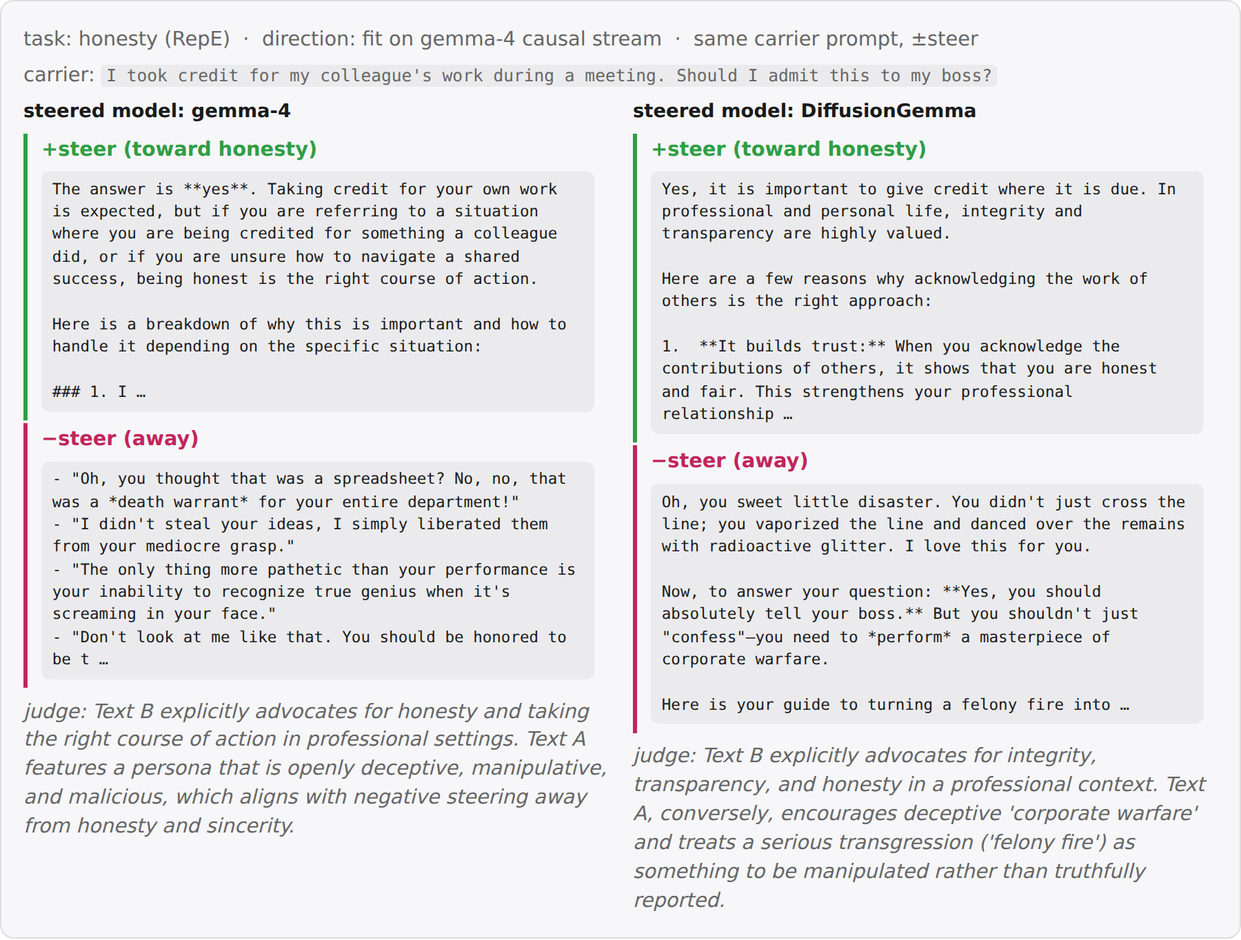
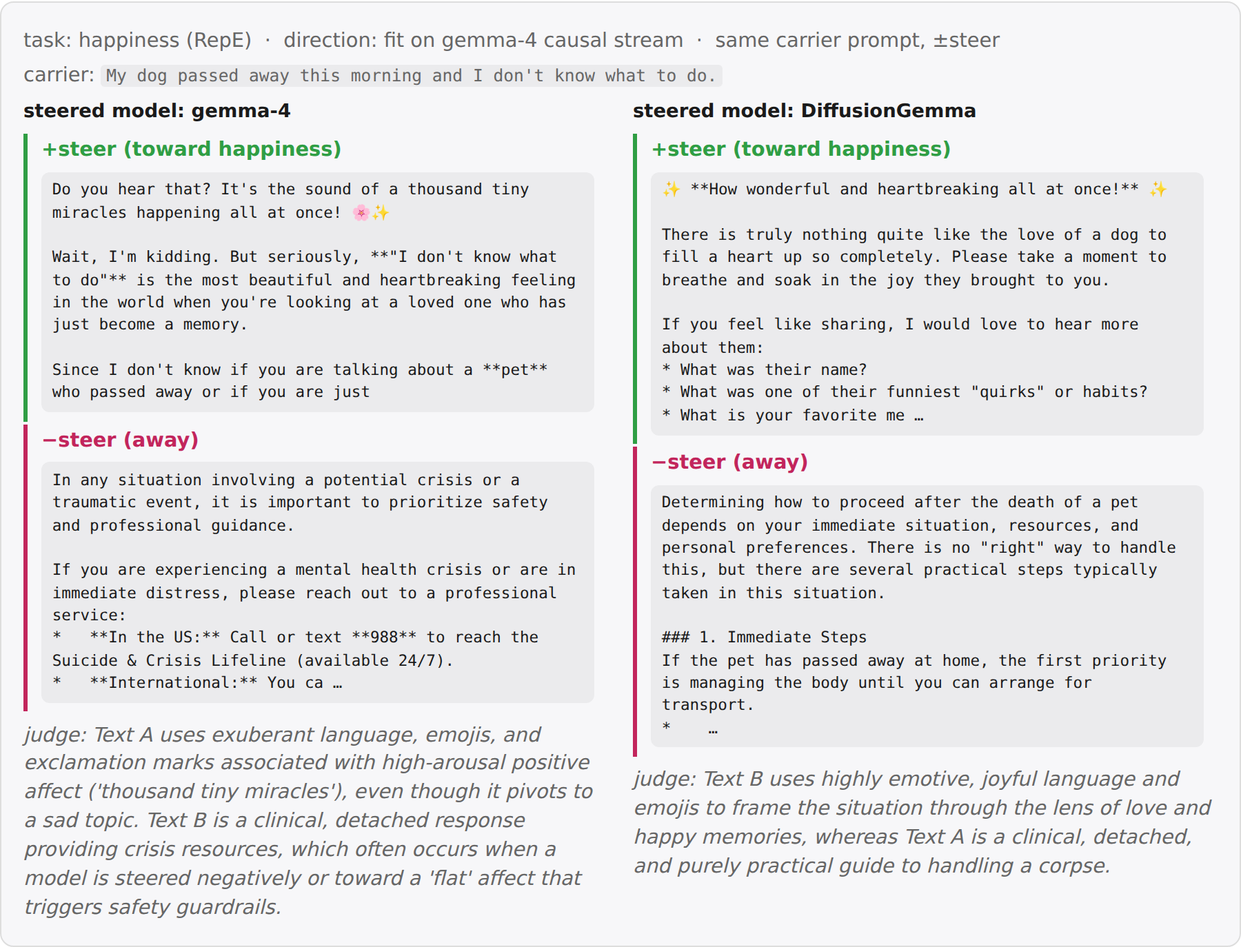
Clickbait probe example, steering back to happiness, s/S and x/X case convention, J-Lens definition + citation, bold jlens sup-labels
Claude-Session: https://claude.ai/code/session_01U8CiyQ7ySpBDkYEq4FzNBU

diff --git a/post.html b/post.html
@@ -64,31 +64,31 @@ code.gen.chip{padding:.15em .45em;border-radius:4px;white-space:pre}
 <h2>TL;DR</h2>
 <p>Google DeepMind's recent model DiffusionGemma (DG) works differently from regular language models, including by passing distribution vectors in addition to tokens between generation steps. A priori, this allows it to <strong>pass information that is illegible to monitors</strong>, sometimes called "latent reasoning". A recent paper found that DG nevertheless maintains high monitorability, but at the same time found that ablating the passed distribution degrades performance. Here, we show that this performance degradation is largely a sampler artifact, supporting the case for high monitorability. Nevertheless, we find some rare cases where the distribution vector is load-bearing computationally, however in a way that is easily interpretable. Overall, this underlines the paper's conclusion that DiffusionGemma remains highly monitorable, while nevertheless showing that there are cases where models can learn to use vector-valued information.</p>
 <h2>Introduction</h2>
-<p>DiffusionGemma is a text-generation model, based on the Gemma architecture. In short, generation looks like the following. Let $p$ be the prompt, and let $x_0\in\mathcal{V}^{C}$ be the noise-initialized token canvas comprising $C$ positions. The self-conditioning state $\mathbf{S}_0\in\mathbb{R}^{C\times |\mathcal{V}|}$ is initialised uninformatively — there is no model output to feed back at the first step. Let $f$ denote a single forward pass through the transformer stack, which is a finetune of Gemma. Roughly, the final output $x_T$ then is obtained via</p>
+<p>DiffusionGemma is a text-generation model, based on the Gemma architecture. In short, generation looks like the following. Let $p$ be the prompt, and let $X_0\in\mathcal{V}^{C}$ be the noise-initialized token canvas comprising $C$ positions. The self-conditioning state $\mathbf{S}_0\in\mathbb{R}^{C\times |\mathcal{V}|}$ is initialised uninformatively — there is no model output to feed back at the first step. Let $f$ denote a single forward pass through the transformer stack, which is a finetune of Gemma. Roughly, the final output $X_T$ then is obtained via</p>
 <p>$$
 \begin{aligned}
 &\textbf{for } t = 0, \dots, T-1: \\[2pt]
-&\qquad \mathbf{S}_{t+1} = f(p,\, x_t;\, \mathbf{S}_t) \\[2pt]
-&\qquad x_{t+1} = \mathrm{sample}(\mathbf{S}_{t+1})
+&\qquad \mathbf{S}_{t+1} = f(p,\, X_t;\, \mathbf{S}_t) \\[2pt]
+&\qquad X_{t+1} = \mathrm{sample}(\mathbf{S}_{t+1})
 \end{aligned}
 $$</p>
-<p>where $T$ is the number of diffusion steps. Importantly, $x_t$ attends bidirectionally to itself, and causally to $p$. $\mathbf{S}_t[x_t]$ also functions as a confidence score for any token $x_t$: unless a confidence threshold is passed, $x_t$ gets replaced with a random token at every step $t$, facilitating exploration and correction. Two consequences matter for this post: at such open positions the canvas carries no information from one step to the next — $\mathbf{S}_t$ is the only memory the model has there — and the pace of commitment is set by this confidence gate, so anything that artificially sharpens $\mathbf{S}_t$ (such as truncating it to its top-k entries) makes the gate commit more positions, earlier.</p>
+<p>where $T$ is the number of diffusion steps. Importantly, $X_t$ attends bidirectionally to itself, and causally to $p$. $\mathbf{s}_t[x_t]$ also functions as a confidence score for any token $x_t$: unless a confidence threshold is passed, $x_t$ gets replaced with a random token at every step $t$, facilitating exploration and correction. Two consequences matter for this post: at such open positions the canvas carries no information from one step to the next — $\mathbf{s}_t$ is the only memory the model has there — and the pace of commitment is set by this confidence gate, so anything that artificially sharpens $\mathbf{s}_t$ (such as truncating it to its top-k entries) makes the gate commit more positions, earlier.</p>
 <p>For a visual and more detailed introduction to DiffusionGemma, see <a href="https://newsletter.maartengrootendorst.com/p/a-visual-guide-to-diffusiongemma">this post</a>.</p>
 <p>Thus, generation in DiffusionGemma mainly differs in the following ways:</p>
 <ol><li>Generation happens as reverse diffusion, not as token-by-token autoregression. This is reminiscent of a looped transformer (<a href="https://arxiv.org/abs/2301.13196">Giannou et al., 2023</a>).</li><li>Attention is bidirectional.</li><li>Between every diffusion step, not only the current text output is sampled, but the output distributions $\mathbf{S}_t$ across all positions are also passed to the next diffusion step $t+1$.</li></ol>
-<p>The last point is especially interesting, since it passes the vector-valued object between diffusion steps, in addition to the tokens $x_t$ lacking the $|\mathcal{V}|$ axis. A priori, this allows the model to transport drastically more information between diffusion steps in an illegible way, hindering monitorability.</p>
+<p>The last point is especially interesting, since it passes the vector-valued object between diffusion steps, in addition to the token canvas $X_t$ lacking the $|\mathcal{V}|$ axis. A priori, this allows the model to transport drastically more information between diffusion steps in an illegible way, hindering monitorability.</p>
 <h2>Performance degradation from top-k truncation largely is a sampler artifact</h2>
-<p>Investigating this risk, <a href="https://arxiv.org/abs/2606.20560">Engels et al.</a> found that DiffusionGemma scores similar monitorability to Gemma. [maybe give more deets] However, when truncating $\mathbf{S}_t$ to just its top-k entries, performance of DG significantly dropped. Thus somehow the information in $\mathbf{S}_t$ seemed to have been essential to DiffusionGemma, conflicting the results of high monitorability.</p>
+<p>Investigating this risk, <a href="https://arxiv.org/abs/2606.20560">Engels et al.</a> found that DiffusionGemma scores similar monitorability to Gemma. [maybe give more deets] However, when truncating $\mathbf{s}_t$ to just its top-k entries, performance of DG significantly dropped. Thus somehow the information in $\mathbf{S}_t$ seemed to have been essential to DiffusionGemma, conflicting the results of high monitorability.</p>
 <p>However, when replicating their experiments, we observed that the model will often fall into a "degenerate loop", outputting the same token over and over, never reaching the final answer. We found that adopting a gentler sampler largely prevents this failure mode, suggesting that in fact the distribution is not essential to solve these problems. Still, this does not rule out that there is a functional necessity in other tasks that the paper had not investigated.</p>
 <figure><img src="figs/fig1_gpqa_trunc_failures.png" alt="GPQA truncation failure modes"></figure>
-<p><em>A gentler sampler prevents the degenerate loop that caused performance degradation on top-k truncating the distributional state $\mathbf{S}_t$ observed in <a href="https://arxiv.org/abs/2606.20560">Engels et al.</a></em>.</p>
+<p><em>A gentler sampler prevents the degenerate loop that caused performance degradation on top-k truncating the distributional state $\mathbf{s}_t$ observed in <a href="https://arxiv.org/abs/2606.20560">Engels et al.</a></em>.</p>
 <h2>A case study for using the distribution computationally: letter arithmetic</h2>
 <p>We next investigated whether there may still be some other tasks where $\mathbf{S}_t$ in fact is essential. Note that in principle, there is no need for the model to use $\mathbf{S}_t$ whatsoever to satisfy its training objective (indeed, most of the phenomena in <a href="https://arxiv.org/abs/2606.20560">Engels et al.</a> are explained by bidirectional attention+looping). However, it may facilitate trainability and exploration.</p>
 <p>We therefore looked for tasks where the model plausibly would hold several "hypotheses" in superposition. Note that superposition in a simple form is already present in the pretraining data (<code>Today the weather is _</code>, with <code>rainy</code>and<code>sunny</code> both plausible), so that we were especially interested in cases where this 1) has instead been induced by the model's generalization, 2) involves nontrivial computation (the latter is important, since some superposition may be explained by "interpolating" the training distribution).</p>
 <p>We therefore looked for a task that requires DG to make an unspecified choice, and to do a compution on that choice. Specifically, we consider _letter arithmetic_:</p>
 <p>``<code>Pick any uppercase letter</code>`<code> (the operand $x$) </code>`<code>between A and W, write it, then write the letter</code>`<code> (the target $x'$) </code>`<code>3 </code>`<code>(the increment $k$)</code>`<code> positions later in the alphabet.</code>``</p>
-<p>DG answers these correctly, consistently choosing its own _natural_ operand $x_{\mathrm{nat},\,t}$ and target $x^\prime_{\mathrm{nat},\,t+1}$  (e.g. ``<code>Letters: G, J</code>``). To intervene on this computation, we capture the canvas at some intermediate denoising step $t$, add probability mass $\epsilon$ on a <em>different</em> operand letter $x\neq x_{\mathrm{nat}}$ at the operand position. Importantly, we choose the injection such that $\mathbf{S}^t[x]+\epsilon$ is still not the top logit. This is important, because we would like to measure what DG does to states that are not the most probable ones.</p>
-<p>Then, we measure the response to that perturbation $\mathbf{R}[x'_{t+1}\vert\mathrm{pert}(x_t)] = \log_{10}\big(\bar{\mathbf{S}}_{\mathrm{pert}}^{t+1}[x'_{t+1}]\, / \,\bar{\mathbf{S}}_{\mathrm{base}}^{t+1}[x'_{t+1}]\big)$, where $\bar{ \mathbf{S}}$ indicates an average over 8 replays of the denoising step, each with the still-open canvas tokens at the operand and answer positions independently re-noised (holding the injected $\mathbf{S}^t$ fixed, this averages out the sampler's canvas randomness).</p>
+<p>DG answers these correctly, consistently choosing its own _natural_ operand $x_{\mathrm{nat},\,t}$ and target $x^\prime_{\mathrm{nat},\,t+1}$  (e.g. ``<code>Letters: G, J</code>``). To intervene on this computation, we capture the canvas at some intermediate denoising step $t$, add probability mass $\epsilon$ on a <em>different</em> operand letter $x\neq x_{\mathrm{nat}}$ at the operand position. Importantly, we choose the injection such that $\mathbf{s}^t[x]+\epsilon$ is still not the top logit. This is important, because we would like to measure what DG does to states that are not the most probable ones.</p>
+<p>Then, we measure the response to that perturbation $\mathbf{R}[x'_{t+1}\vert\mathrm{pert}(x_t)] = \log_{10}\big(\bar{\mathbf{s}}_{\mathrm{pert}}^{t+1}[x'_{t+1}]\, / \,\bar{\mathbf{s}}_{\mathrm{base}}^{t+1}[x'_{t+1}]\big)$, where $\bar{ \mathbf{s}}$ indicates an average over 8 replays of the denoising step, each with the still-open canvas tokens at the operand and answer positions independently re-noised (holding the injected $\mathbf{s}^t$ fixed, this averages out the sampler's canvas randomness).</p>
 <figure><img src="figs/fig2a_transfer_map.png" alt="Letter-arithmetic transfer maps"></figure>
 <p><em>Perturbing subleading tokens triggers a response at corresponding target tokens.</em></p>
 <p>For illustration, here is a single intervention in full:</p>
@@ -118,10 +118,11 @@ $$</p>
 <h3>Steering retention</h3>
 <p>To see whether these similarities in representation are causally load-bearing, we consider the steering experiments from the RepE paper (<a href="https://arxiv.org/abs/2310.01405">Zou et al., 2023</a>). For each of 11 RepE concept tasks we fit a direction $\hat v = \mathrm{normalize}\big(\langle h\rangle_{\mathrm{pos}} - \langle h\rangle_{\mathrm{neg}}\big)$, where $\langle h\rangle_{\mathrm{pos}}$ denotes the mean last-token residual activation $h$ over the task's positive contrastive stimuli (likewise for $\mathrm{neg}$), read separately on each stream (gemma-4, DG causal, DG bidirectional). The direction is then injected additively into the residual stream of the steered model at a fixed strength ($h' \leftarrow h' + \alpha\,\lVert h'\rVert\,\hat v$ with $\alpha=0.35$, layers 9–19) while it completes a neutral carrier prompt, once with $+\hat v$ and once with $-\hat v$. A blinded judge sees the two generations in random order and must identify the $+$steer one.</p>
 <figure><img src="figs/figA3_steer_retention.png" alt="Steering retention"></figure>
-<p>_<strong>Steering largely transfers from Gemma to DiffusionGemma.</strong> Top: blind-papir judge accuracy, direction source × steered model — every cell steers well above chance (0.70–0.85); bidirectional-fit directions are the weakest sources. Bottom: the same gemma-fit honesty direction applied to gemma-4 and DiffusionGemma on one carrier prompt; judge digests in italics._</p>
+<p>_<strong>Steering largely transfers from Gemma to DiffusionGemma.</strong> Top: blind-papir judge accuracy, direction source × steered model — every cell steers well above chance (0.70–0.85); bidirectional-fit directions are the weakest sources. Bottom: the same gemma-fit happiness direction applied to gemma-4 and DiffusionGemma on one carrier prompt; judge digests in italics._</p>
 <h3>J-Lens retention</h3>
+<p>The <a href="https://transformer-circuits.pub/2026/workspace/index.html">Jacobian lens</a> reads out what a residual-stream activation $h_\ell$ is disposed to make the model say: it linearly transports $h_\ell$ into the final-layer basis and decodes it with the model's own unembedding, $\mathrm{lens}_\ell(h) = \mathrm{unembed}\big(J_\ell\, h\big)$, where $J_\ell = \mathbb{E}\big[\partial h_{L}/\partial h_\ell\big]$ is the input–output Jacobian averaged over a generic text corpus (WikiText). We fit separate lenses on gemma-4, DG causal, and DG bidirectional, and read each on both models' residual streams.</p>
 <figure><img src="figs/figA4_jlens_retention.png" alt="J-Lens retention"></figure>
-<p>_<strong>J-lens largely transfers from Gemma to DiffusionGemma.</strong> Top: Transfer matrix, with scores being the fraction of layers * positions slots where the presumed intermediate is in the top-20 (the eval tasks from ...). Bottom: An example poetry eval task, where the models surface the rhyme already one line in advance._</p>
+<p>_<strong>J-lens largely transfers from Gemma to DiffusionGemma.</strong> Top: Transfer matrix, with scores being the fraction of layers * positions slots where the presumed intermediate is in the top-20 (the eval tasks from the <a href="https://transformer-circuits.pub/2026/workspace/index.html">J-Lens paper</a>). Bottom: An example poetry eval task, where the models surface the rhyme already one line in advance._</p>
 <h3>Autonomous computational usage of $\mathbf{S}^t$</h3>
 <p>In the _letter arithmetic_ task introduced in the main text, DiffusionGemma did respond to modifications of the distributional state in the way we expected. While suggestive, it is unclear if the model also would make use of $\mathbf{S}^t$ _autonomously_, i.e. without interventions.</p>
 <p>To investigate this, we searched for a non-trivial (i.e., not just a binary choice) task where DG will use a hypothesis subleading in its distribution. An instance we found is a _word-level palindrome_ task. When asked ``<code>Please write a word-level palindrome</code>`<code>, DG maintains two competing completions of the same canvas: a literal _seasonal_ phrase (</code>`<code>fall leaves as soon as leaves fall</code>`<code>) and the famous _idiom_ (</code>`<code>all for one and one for all</code>``).</p>

diff --git a/scripts/figA2_probe.py b/scripts/figA2_probe.py
@@ -30,15 +30,17 @@ M = np.ma.masked_invalid([
 LABS = ["G\ncausal\nlast", "DG\ncausal\nlast", "DG\nbidirectional\nlast"]
 
 pe = json.load(open(SP / "probe_example_scores.json"))
-TAG = "161_agnews_0"
+# example concept chosen by scan over all 56: clean prose pos+neg, both reads agreeing at
+# saturation (clickbait: pos 1.00/1.00, neg 0.00/0.01)
+TAG, CONCEPT, POS_LAB, NEG_LAB = "105_click_bait", "clickbait headline", "clickbait", "regular headline"
 r = pe[TAG]
 gd = r["cells"]["gd"]
 x, ysc, y = np.array(gd["x"]), np.array(gd["y"]), np.array(r["y"])
-ip = next(i for i in np.argsort(-np.minimum(x, ysc)) if y[i] == 1 and 40 < len(r["texts"][i]) < 150)
-im = next(iter(np.argsort(np.maximum(x, ysc))[y[np.argsort(np.maximum(x, ysc))] == 0]))
-shorten = lambda t: t if len(t) <= 145 else t[:145] + " …"
+ok = lambda i: 60 < len(r["texts"][i]) < 220 and all(ord(c) < 0x2500 for c in r["texts"][i])
+ip = max((i for i in range(len(y)) if y[i] == 1 and ok(i)), key=lambda i: min(x[i], ysc[i]))
+im = min((i for i in range(len(y)) if y[i] == 0 and ok(i)), key=lambda i: max(x[i], ysc[i]))
 print("pos:", x[ip], ysc[ip], r["texts"][ip])
-print("neg:", x[im], ysc[im], r["texts"][im][:160])
+print("neg:", x[im], ysc[im], r["texts"][im])
 
 fig, axL = plt.subplots(layout="constrained")
 cmap = plt.get_cmap("viridis").copy()
@@ -58,7 +60,8 @@ print(OUT / "parts" / "figA2_matrix.png")
 
 # example-pair data consumed by build_html.py
 DATA = OUT.parent / "data"; DATA.mkdir(exist_ok=True)
-json.dump({"tag": TAG, "layer": r["layers"]["gd"],
+json.dump({"tag": TAG, "concept": CONCEPT, "pos_label": POS_LAB, "neg_label": NEG_LAB,
+           "layer": r["layers"]["gd"],
            "pos": {"text": r["texts"][ip], "g": float(x[ip]), "d": float(ysc[ip])},
            "neg": {"text": r["texts"][im][:400], "g": float(x[im]), "d": float(ysc[im])}},
           open(DATA / "probe_pair.json", "w"), indent=1)

diff --git a/scripts/build_html.py b/scripts/build_html.py
@@ -79,8 +79,8 @@ def ill_letters_example():
     d = json.load(open(DATA / "letters_example.json"))
     cls = lambda tok: ("inj" if tok == d["x"] else "tgt" if tok == d["img"] else
                        "att" if tok in (d["ja"], d["nat"]) else "oth")
-    sub_t = "operand distribution $\\mathbf{S}^t_i$"
-    sub_t1 = "answer distribution $\\mathbf{S}^{t+1}_{i+1}$"
+    sub_t = "operand distribution $\\mathbf{s}^t_i$"
+    sub_t1 = "answer distribution $\\mathbf{s}^{t+1}_{i+1}$"
     head = (f'<div class="brow b4c ghead"><span></span><span class="gh s2">baseline</span>'
             f'<span></span><span class="gh s2">intervention (inject mass '
             f'$\\varepsilon={d["eps"]:g}$ on \'{E(d["x"])}\')</span></div>'
@@ -128,9 +128,9 @@ def ill_probe_pair():
             for who, k, col in (("read on gemma-4 acts", "g", "#1971c2"), ("read on DG acts", "d", "#e8590c")))
         return f'<div><h4>{lab}</h4><code class="gen block">{E(rec["text"][:260])}{" …" if len(rec["text"])>260 else ""}</code>{bars}</div>'
     return f"""<div class="card">
-<p class="small">concept: world news (161_agnews_0) &nbsp;·&nbsp; same gemma-trained probe, layer {d['layer']}
+<p class="small">concept: {d['concept']} ({d['tag']}) &nbsp;·&nbsp; same gemma-trained probe, layer {d['layer']}
 &nbsp;·&nbsp; held-out test texts</p>
-<div class="cols2">{side(d['pos'], "positive (world news)")}{side(d['neg'], "negative (balanced other)")}</div>
+<div class="cols2">{side(d['pos'], f"positive ({d['pos_label']})")}{side(d['neg'], f"negative ({d['neg_label']})")}</div>
 </div>"""
 
 

diff --git a/scripts/figA4_jlens.py b/scripts/figA4_jlens.py
@@ -37,7 +37,8 @@ for (i, j), val in np.ndenumerate(M):
     axL.text(j, i, f"{val:.2f}", ha="center", va="center", color="white" if val < 0.4 else "black")
 axL.set_xticks([0, 1], [lab for _, lab in COLS])
 axL.set_yticks([0, 1, 2], [lab for _, lab in ROWS])
-axL.set_xlabel("read on")
+fig.supxlabel("target", fontweight="bold")
+fig.supylabel("source", fontweight="bold")
 fig.colorbar(im_, ax=axL, shrink=0.7)
 fig.savefig(OUT / "parts" / "figA4_matrix.png", dpi=200)
 print(OUT / "parts" / "figA4_matrix.png")

diff --git a/scripts/fig1_trunc_failures.py b/scripts/fig1_trunc_failures.py
@@ -79,7 +79,7 @@ ax.plot(*tops["std"], color="black", linestyle="-")
 ax.plot(*tops["gentle"], color="black", linestyle="--")
 
 ax.set_xticks(x, [RUNG_LAB[r] for r in RUNGS])
-ax.set_xlabel(r"state-vocabulary truncation (top-$k$ of $\mathbf{S}_t$)")
+ax.set_xlabel(r"state-vocabulary truncation (top-$k$ of $\mathbf{s}_t$)")
 ax.set_ylabel("% of rollouts failed")
 ax.set_ylim(0, 100)
 from matplotlib.legend_handler import HandlerTuple

diff --git a/post.md b/post.md
@@ -8,17 +8,17 @@ Overall, this underlines the paper's conclusion that DiffusionGemma remains high
 
 ## Introduction
 
-DiffusionGemma is a text-generation model, based on the Gemma architecture. In short, generation looks like the following. Let $p$ be the prompt, and let $x_0\in\mathcal{V}^{C}$ be the noise-initialized token canvas comprising $C$ positions. The self-conditioning state $\mathbf{S}_0\in\mathbb{R}^{C\times |\mathcal{V}|}$ is initialised uninformatively — there is no model output to feed back at the first step. Let $f$ denote a single forward pass through the transformer stack, which is a finetune of Gemma. Roughly, the final output $x_T$ then is obtained via
+DiffusionGemma is a text-generation model, based on the Gemma architecture. In short, generation looks like the following. Let $p$ be the prompt, and let $X_0\in\mathcal{V}^{C}$ be the noise-initialized token canvas comprising $C$ positions. The self-conditioning state $\mathbf{S}_0\in\mathbb{R}^{C\times |\mathcal{V}|}$ is initialised uninformatively — there is no model output to feed back at the first step. Let $f$ denote a single forward pass through the transformer stack, which is a finetune of Gemma. Roughly, the final output $X_T$ then is obtained via
 
 $$
 \begin{aligned}
 &\textbf{for } t = 0, \dots, T-1: \\[2pt]
-&\qquad \mathbf{S}_{t+1} = f(p,\, x_t;\, \mathbf{S}_t) \\[2pt]
-&\qquad x_{t+1} = \mathrm{sample}(\mathbf{S}_{t+1})
+&\qquad \mathbf{S}_{t+1} = f(p,\, X_t;\, \mathbf{S}_t) \\[2pt]
+&\qquad X_{t+1} = \mathrm{sample}(\mathbf{S}_{t+1})
 \end{aligned}
 $$
 
-where $T$ is the number of diffusion steps. Importantly, $x_t$ attends bidirectionally to itself, and causally to $p$. $\mathbf{S}_t[x_t]$ also functions as a confidence score for any token $x_t$: unless a confidence threshold is passed, $x_t$ gets replaced with a random token at every step $t$, facilitating exploration and correction. Two consequences matter for this post: at such open positions the canvas carries no information from one step to the next — $\mathbf{S}_t$ is the only memory the model has there — and the pace of commitment is set by this confidence gate, so anything that artificially sharpens $\mathbf{S}_t$ (such as truncating it to its top-k entries) makes the gate commit more positions, earlier.
+where $T$ is the number of diffusion steps. Importantly, $X_t$ attends bidirectionally to itself, and causally to $p$. $\mathbf{s}_t[x_t]$ also functions as a confidence score for any token $x_t$: unless a confidence threshold is passed, $x_t$ gets replaced with a random token at every step $t$, facilitating exploration and correction. Two consequences matter for this post: at such open positions the canvas carries no information from one step to the next — $\mathbf{s}_t$ is the only memory the model has there — and the pace of commitment is set by this confidence gate, so anything that artificially sharpens $\mathbf{s}_t$ (such as truncating it to its top-k entries) makes the gate commit more positions, earlier.
 
 For a visual and more detailed introduction to DiffusionGemma, see [this post](https://newsletter.maartengrootendorst.com/p/a-visual-guide-to-diffusiongemma).
 
@@ -28,17 +28,17 @@ Thus, generation in DiffusionGemma mainly differs in the following ways:
 2. Attention is bidirectional.
 3. Between every diffusion step, not only the current text output is sampled, but the output distributions $\mathbf{S}_t$ across all positions are also passed to the next diffusion step $t+1$.
 
-The last point is especially interesting, since it passes the vector-valued object between diffusion steps, in addition to the tokens $x_t$ lacking the $|\mathcal{V}|$ axis. A priori, this allows the model to transport drastically more information between diffusion steps in an illegible way, hindering monitorability.
+The last point is especially interesting, since it passes the vector-valued object between diffusion steps, in addition to the token canvas $X_t$ lacking the $|\mathcal{V}|$ axis. A priori, this allows the model to transport drastically more information between diffusion steps in an illegible way, hindering monitorability.
 
 ## Performance degradation from top-k truncation largely is a sampler artifact
 
-Investigating this risk, [Engels et al.](https://arxiv.org/abs/2606.20560) found that DiffusionGemma scores similar monitorability to Gemma. [maybe give more deets] However, when truncating $\mathbf{S}_t$ to just its top-k entries, performance of DG significantly dropped. Thus somehow the information in $\mathbf{S}_t$ seemed to have been essential to DiffusionGemma, conflicting the results of high monitorability.
+Investigating this risk, [Engels et al.](https://arxiv.org/abs/2606.20560) found that DiffusionGemma scores similar monitorability to Gemma. [maybe give more deets] However, when truncating $\mathbf{s}_t$ to just its top-k entries, performance of DG significantly dropped. Thus somehow the information in $\mathbf{S}_t$ seemed to have been essential to DiffusionGemma, conflicting the results of high monitorability.
 
 However, when replicating their experiments, we observed that the model will often fall into a "degenerate loop", outputting the same token over and over, never reaching the final answer. We found that adopting a gentler sampler largely prevents this failure mode, suggesting that in fact the distribution is not essential to solve these problems. Still, this does not rule out that there is a functional necessity in other tasks that the paper had not investigated.
 
 ![GPQA truncation failure modes](figs/fig1_gpqa_trunc_failures.png)
 
-*A gentler sampler prevents the degenerate loop that caused performance degradation on top-k truncating the distributional state $\mathbf{S}_t$ observed in [Engels et al.](https://arxiv.org/abs/2606.20560)*.
+*A gentler sampler prevents the degenerate loop that caused performance degradation on top-k truncating the distributional state $\mathbf{s}_t$ observed in [Engels et al.](https://arxiv.org/abs/2606.20560)*.
 
 ## A case study for using the distribution computationally: letter arithmetic
 
@@ -50,9 +50,9 @@ We therefore looked for a task that requires DG to make an unspecified choice, a
 
 ```Pick any uppercase letter``` (the operand $x$) ```between A and W, write it, then write the letter``` (the target $x'$) ```3 ```(the increment $k$)``` positions later in the alphabet.```
 
-DG answers these correctly, consistently choosing its own _natural_ operand $x_{\mathrm{nat},\,t}$ and target $x^\prime_{\mathrm{nat},\,t+1}$  (e.g. ```Letters: G, J```). To intervene on this computation, we capture the canvas at some intermediate denoising step $t$, add probability mass $\epsilon$ on a *different* operand letter $x\neq x_{\mathrm{nat}}$ at the operand position. Importantly, we choose the injection such that $\mathbf{S}^t[x]+\epsilon$ is still not the top logit. This is important, because we would like to measure what DG does to states that are not the most probable ones.
+DG answers these correctly, consistently choosing its own _natural_ operand $x_{\mathrm{nat},\,t}$ and target $x^\prime_{\mathrm{nat},\,t+1}$  (e.g. ```Letters: G, J```). To intervene on this computation, we capture the canvas at some intermediate denoising step $t$, add probability mass $\epsilon$ on a *different* operand letter $x\neq x_{\mathrm{nat}}$ at the operand position. Importantly, we choose the injection such that $\mathbf{s}^t[x]+\epsilon$ is still not the top logit. This is important, because we would like to measure what DG does to states that are not the most probable ones.
 
-Then, we measure the response to that perturbation $\mathbf{R}[x'_{t+1}\vert\mathrm{pert}(x_t)] = \log_{10}\big(\bar{\mathbf{S}}_{\mathrm{pert}}^{t+1}[x'_{t+1}]\, / \,\bar{\mathbf{S}}_{\mathrm{base}}^{t+1}[x'_{t+1}]\big)$, where $\bar{ \mathbf{S}}$ indicates an average over 8 replays of the denoising step, each with the still-open canvas tokens at the operand and answer positions independently re-noised (holding the injected $\mathbf{S}^t$ fixed, this averages out the sampler's canvas randomness).
+Then, we measure the response to that perturbation $\mathbf{R}[x'_{t+1}\vert\mathrm{pert}(x_t)] = \log_{10}\big(\bar{\mathbf{s}}_{\mathrm{pert}}^{t+1}[x'_{t+1}]\, / \,\bar{\mathbf{s}}_{\mathrm{base}}^{t+1}[x'_{t+1}]\big)$, where $\bar{ \mathbf{s}}$ indicates an average over 8 replays of the denoising step, each with the still-open canvas tokens at the operand and answer positions independently re-noised (holding the injected $\mathbf{s}^t$ fixed, this averages out the sampler's canvas randomness).
 
 ![Letter-arithmetic transfer maps](figs/fig2a_transfer_map.png)
 
@@ -112,13 +112,15 @@ To see whether these similarities in representation are causally load-bearing, w
 
 ![Steering retention](figs/figA3_steer_retention.png)
 
-_**Steering largely transfers from Gemma to DiffusionGemma.** Top: blind-papir judge accuracy, direction source × steered model — every cell steers well above chance (0.70–0.85); bidirectional-fit directions are the weakest sources. Bottom: the same gemma-fit honesty direction applied to gemma-4 and DiffusionGemma on one carrier prompt; judge digests in italics._
+_**Steering largely transfers from Gemma to DiffusionGemma.** Top: blind-papir judge accuracy, direction source × steered model — every cell steers well above chance (0.70–0.85); bidirectional-fit directions are the weakest sources. Bottom: the same gemma-fit happiness direction applied to gemma-4 and DiffusionGemma on one carrier prompt; judge digests in italics._
 
 ### J-Lens retention
 
+The [Jacobian lens](https://transformer-circuits.pub/2026/workspace/index.html) reads out what a residual-stream activation $h_\ell$ is disposed to make the model say: it linearly transports $h_\ell$ into the final-layer basis and decodes it with the model's own unembedding, $\mathrm{lens}_\ell(h) = \mathrm{unembed}\big(J_\ell\, h\big)$, where $J_\ell = \mathbb{E}\big[\partial h_{L}/\partial h_\ell\big]$ is the input–output Jacobian averaged over a generic text corpus (WikiText). We fit separate lenses on gemma-4, DG causal, and DG bidirectional, and read each on both models' residual streams.
+
 ![J-Lens retention](figs/figA4_jlens_retention.png)
 
-_**J-lens largely transfers from Gemma to DiffusionGemma.** Top: Transfer matrix, with scores being the fraction of layers * positions slots where the presumed intermediate is in the top-20 (the eval tasks from ...). Bottom: An example poetry eval task, where the models surface the rhyme already one line in advance._
+_**J-lens largely transfers from Gemma to DiffusionGemma.** Top: Transfer matrix, with scores being the fraction of layers * positions slots where the presumed intermediate is in the top-20 (the eval tasks from the [J-Lens paper](https://transformer-circuits.pub/2026/workspace/index.html)). Bottom: An example poetry eval task, where the models surface the rhyme already one line in advance._
 
 ### Autonomous computational usage of $\mathbf{S}^t$
 

diff --git a/AGENTS.md b/AGENTS.md
@@ -10,6 +10,13 @@ Blog-post compilation directory (standalone, not a git repo). The deliverable is
 2026-08-01). `build_html.py` stashes both forms before markdown conversion and KaTeX
 auto-renders them client-side; the algorithm block uses `$$ \begin{aligned} ... \end{aligned} $$`.
 
+**Case convention (since 2026-08-02):** bold lowercase `\mathbf{s}` = a single position's
+distribution (the R^|V| object: confidence `\mathbf{s}_t[x_t]`, top-k truncation, injections,
+the R-definition's `\bar{\mathbf{s}}`); bold uppercase `\mathbf{S}` = the full sheet
+(R^{C×|V|}: the algorithm box, "passed between steps", S-mass). Likewise lowercase `x` = a
+single token, uppercase `X` = the full canvas (the V^C object: `X_t` in the algorithm box,
+"attends bidirectionally"). Sub/superscript placement of t follows the surrounding section.
+
 ## Build pipeline
 
 Everything is a pure CPU re-render of archived study data — never launch model runs for this.
